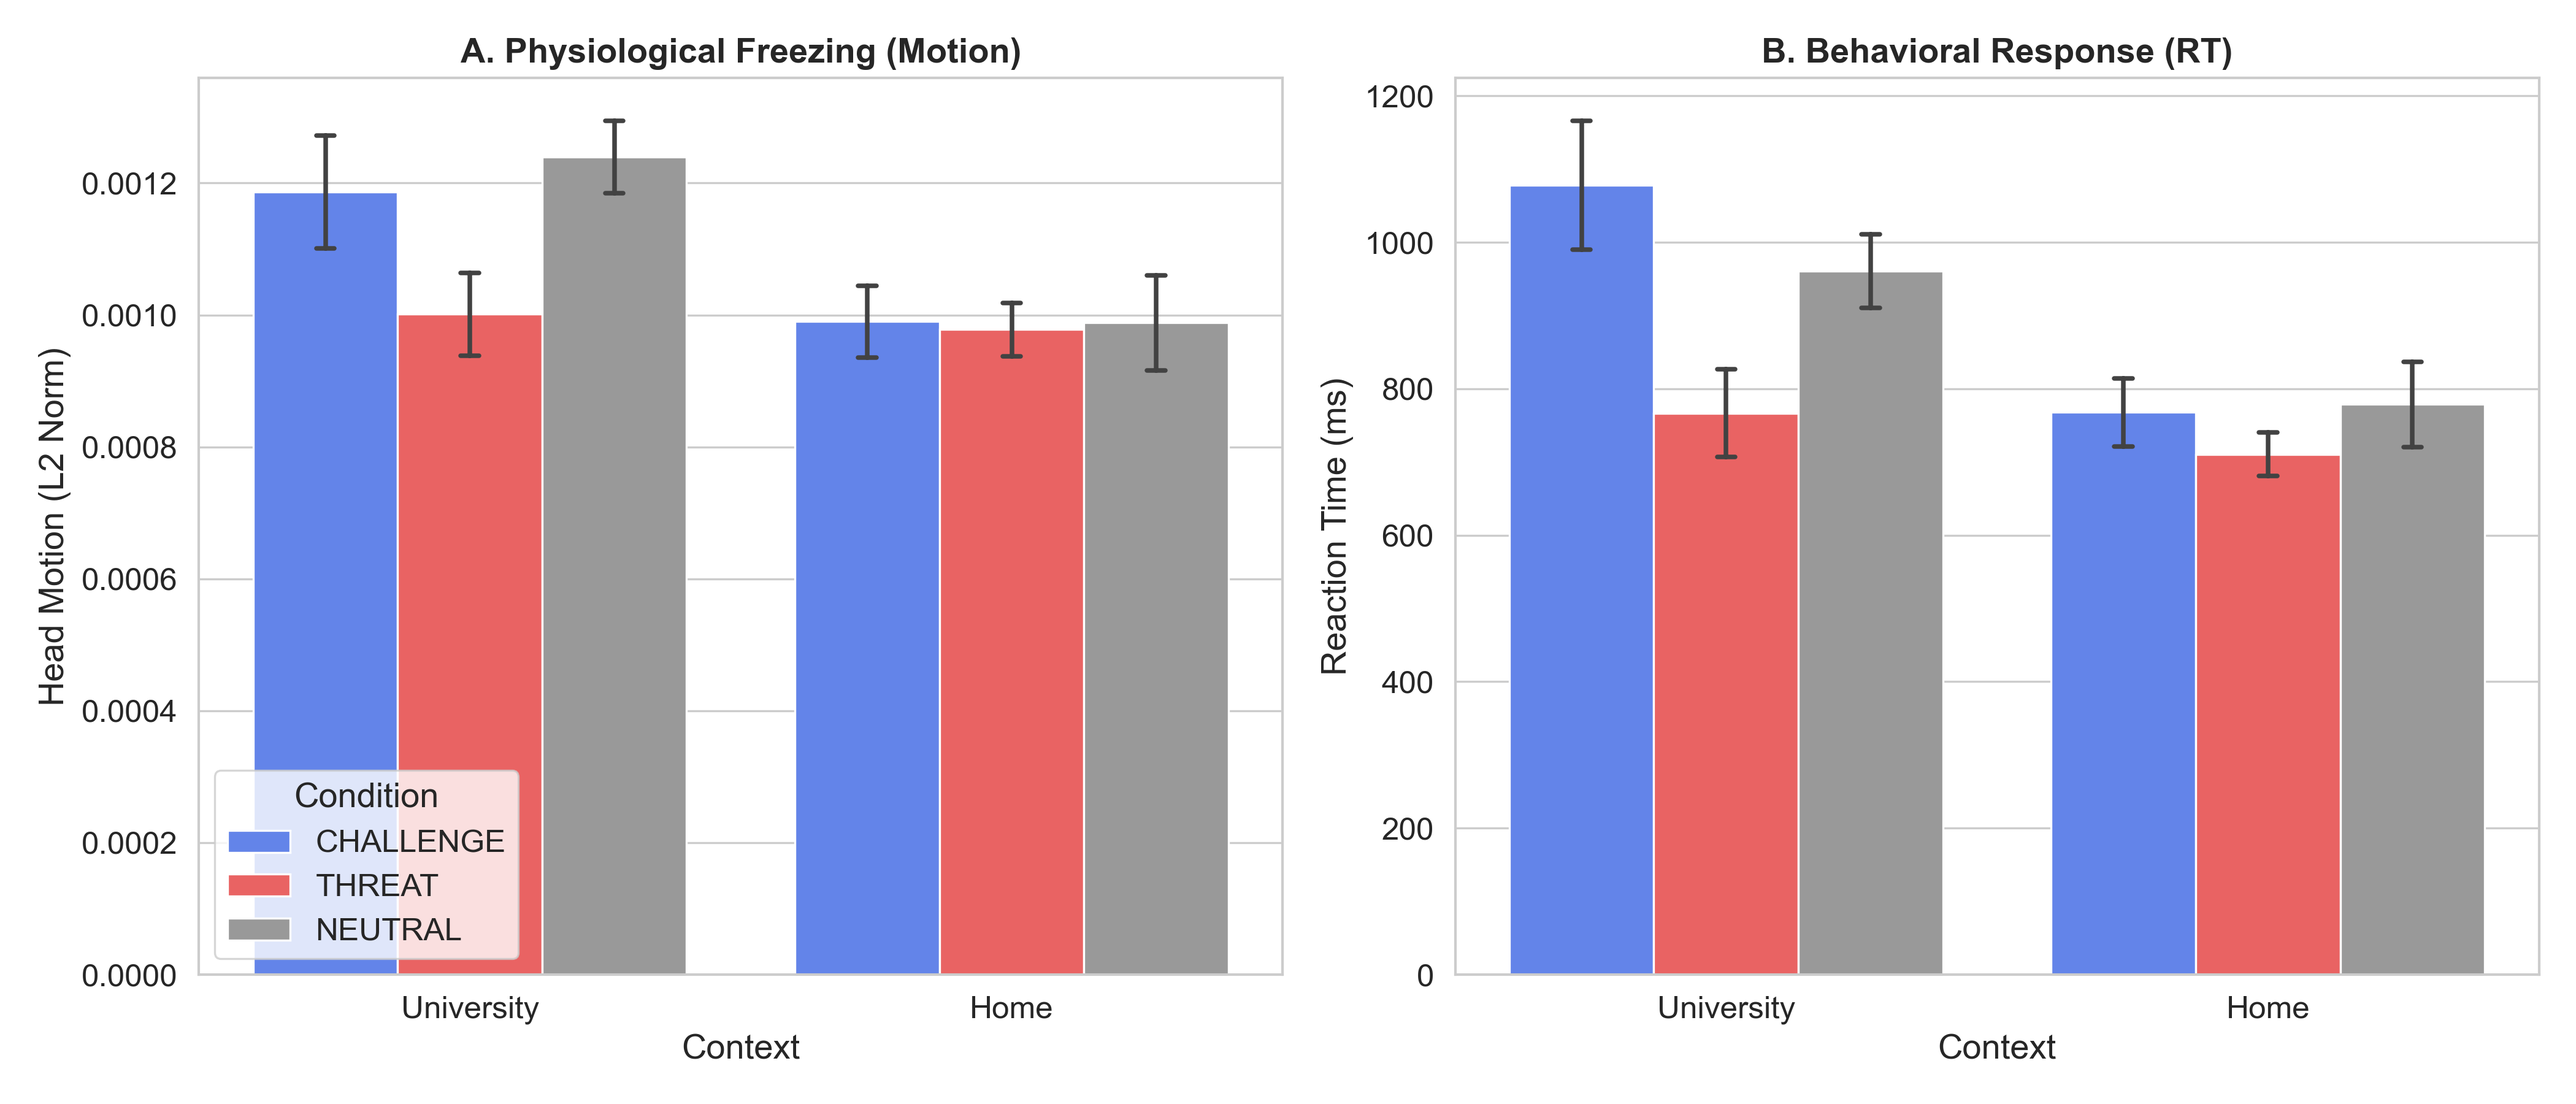
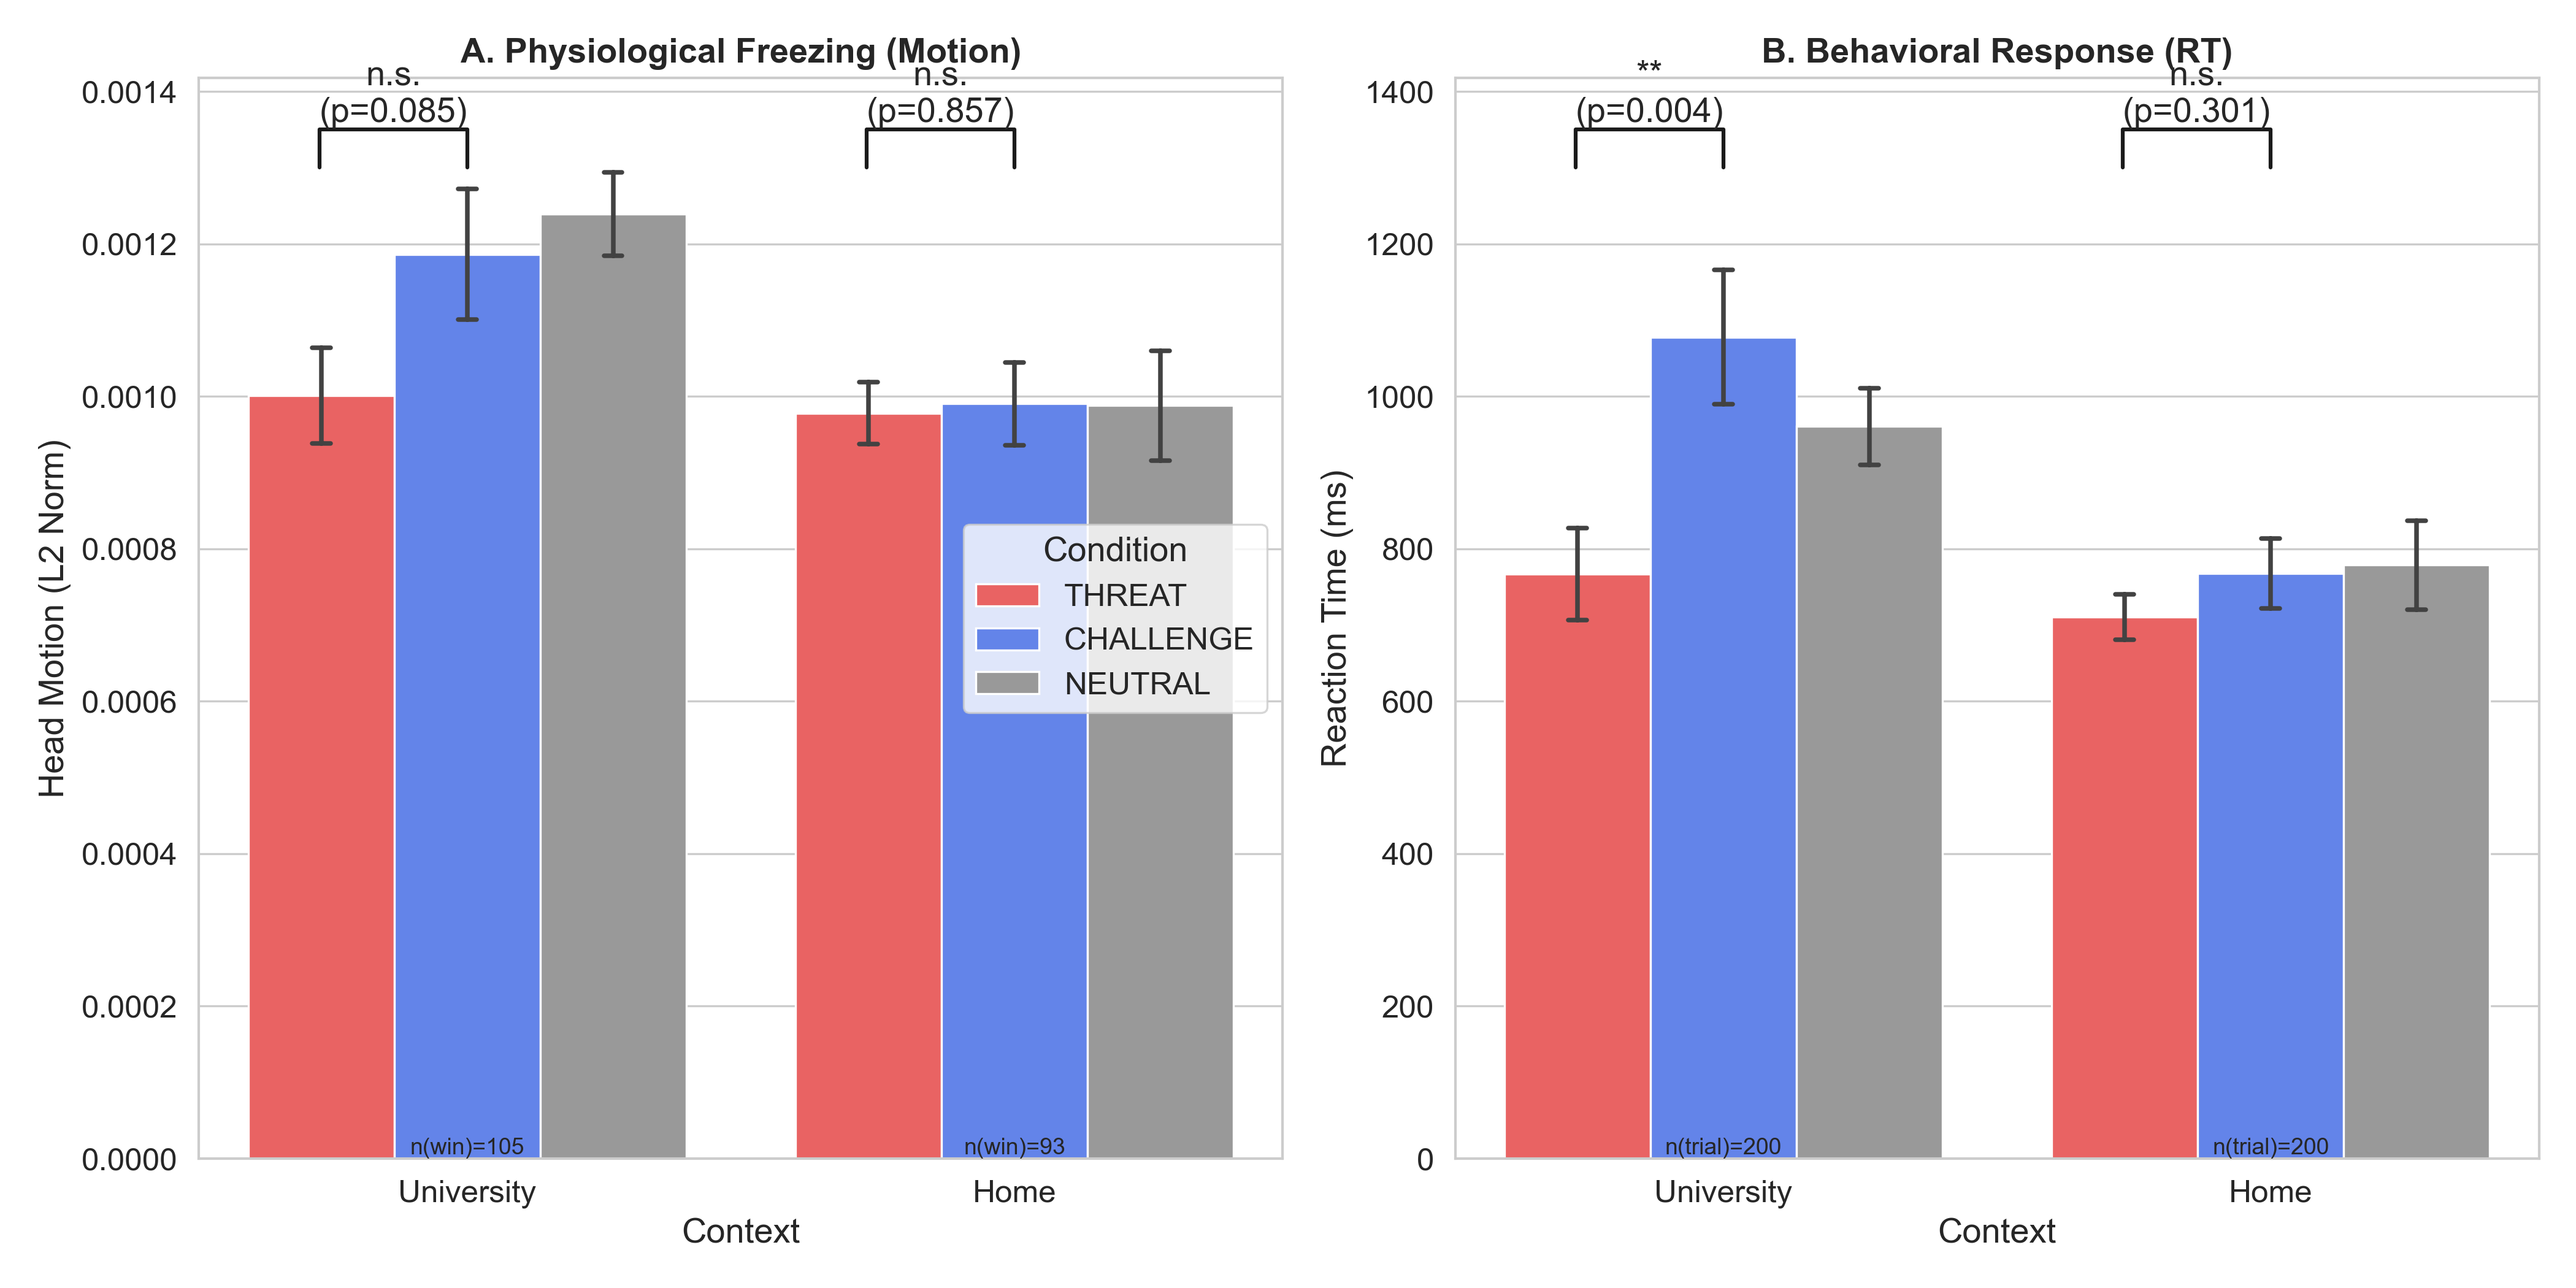
feat: Add statistical annotations and N counts to Figure 2 and Figure 3 generation, and refine data type handling.

diff --git a/generate_figures.py b/generate_figures.py
@@ -4,6 +4,73 @@ import matplotlib.pyplot as plt
 import seaborn as sns
 import os
 import numpy as np
+from scipy import stats
+
+def annotate_significance(ax, data, x, y, hue, pair_conds):
+    """
+    Annotate significance between two conditions (pair_conds) within each x-category.
+    """
+    contexts = data[x].unique()
+    
+    # Y-offset for annotations
+    y_max = data[y].max()
+    h = y_max * 0.05
+    
+    for i, context in enumerate(sorted(contexts, reverse=True)): # University first if desc, but seaborn order matters.
+        # Get data
+        d1 = data[(data[x] == context) & (data[hue] == pair_conds[0])][y].dropna()
+        d2 = data[(data[x] == context) & (data[hue] == pair_conds[1])][y].dropna()
+        
+        n1 = len(d1)
+        n2 = len(d2)
+        
+        # T-test
+        if n1 > 1 and n2 > 1:
+            t, p = stats.ttest_ind(d1, d2, equal_var=False)
+            
+            # Format p-value
+            if p < 0.001:
+                sig_symbol = "***"
+            elif p < 0.01:
+                sig_symbol = "**"
+            elif p < 0.05:
+                sig_symbol = "*"
+            else:
+                sig_symbol = "n.s."
+            
+            # Draw line and text
+            # Approximate x-coords for hue bars. 
+            # Seaborn dodge: width=0.8. 3 bars. centers at -0.27, 0, 0.27 roughly?
+            # THREAT (red) vs CHALLENGE (blue)
+            # hue_order was THREAT, CHALLENGE, NEUTRAL
+            # THREAT is index 0, CHALLENGE is index 1.
+            
+            # Context-centers: 0, 1. Univ is usually 1 (alphabetical H, U? No. Home, Univ).
+            # Let's dynamically find centers if possible, or assume seaborn default.
+            # Default order: Home (0), University (1)
+            
+            x_center = i 
+            bar_width = 0.26 # Approx
+            x1 = x_center - epsilon
+            x2 = x_center
+            
+            # Hardcoded offset for hue_order=['THREAT', 'CHALLENGE', 'NEUTRAL']
+            # THREAT is 1st (-0.26), CHALLENGE is 2nd (0), NEUTRAL is 3rd (+0.26)
+            x_threat = x_center - 0.26
+            x_chal = x_center
+            
+            y1 = data[(data[x] == context)][y].mean() + data[(data[x] == context)][y].std() # Just above bar? No, above max.
+            # Find max of the two comparison bars
+            y_curr_max = max(d1.mean() + d1.std(), d2.mean() + d2.std())
+            y_curr_max = max(d1.max(), d2.max()) # safer for raw data points
+            
+            # Draw
+            line_y = y_curr_max + h
+            ax.plot([x_threat, x_threat, x_chal, x_chal], [line_y, line_y+h, line_y+h, line_y], lw=1.5, c='k')
+            ax.text((x_threat+x_chal)/2, line_y+h, f"{sig_symbol}\n(p={p:.3f})", ha='center', va='bottom', fontsize=10)
+            
+            # Add N
+            ax.text(x_center, 0, f"n={n1+n2}", ha='center', va='bottom', fontsize=8, color='black', fontweight='bold')
 
 def generate_paper_figures():
     # Setup style
@@ -52,18 +119,27 @@ def generate_paper_figures():
     windows = windows[windows['condition'].isin(valid_conds)]
     trials = trials[trials['condition'].isin(valid_conds)]
     
+    # Cleanup data types
+    windows['mean_motion'] = pd.to_numeric(windows['mean_motion'], errors='coerce')
+    trials['rt'] = pd.to_numeric(trials['rt'], errors='coerce')
+    windows['mean_exposure_fluc'] = pd.to_numeric(windows['mean_exposure_fluc'], errors='coerce')
+
     # OUTPUT DIR
     out_dir = "paper_figures"
     os.makedirs(out_dir, exist_ok=True)
 
     # --- FIGURE 3: Interaction Effect (The "Safe Haven" Effect) ---
-    fig, axes = plt.subplots(1, 2, figsize=(14, 6))
+    fig, axes = plt.subplots(1, 2, figsize=(14, 7))
+    
+    # Define Order
+    hue_order = ['THREAT', 'CHALLENGE', 'NEUTRAL']
+    context_order = ['University', 'Home']
     
     # A. Physiology (Motion)
-    # Ensure numeric
-    windows['mean_motion'] = pd.to_numeric(windows['mean_motion'], errors='coerce')
+    # Filter out outliers specifically for plotting? or keep raw? Keep raw.
     
     sns.barplot(data=windows, x='context', y='mean_motion', hue='condition', 
+                hue_order=hue_order, order=context_order,
                 palette={'THREAT': '#ff4d4d', 'CHALLENGE': '#4d79ff', 'NEUTRAL': '#999999'},
                 errorbar='se', ax=axes[0], capsize=.1)
     
@@ -72,10 +148,43 @@ def generate_paper_figures():
     axes[0].set_xlabel('Context')
     axes[0].legend(title='Condition')
     
-    # B. Behavior (RT)
-    trials['rt'] = pd.to_numeric(trials['rt'], errors='coerce')
+    # Custom Annotation for Motion
+    # We compare THREAT vs CHALLENGE
+    # University (Index 0)
+    # Home (Index 1)
     
+    # Manually annotate for control
+    # University
+    u_th = windows[(windows['context']=='University') & (windows['condition']=='THREAT')]['mean_motion'].dropna()
+    u_ch = windows[(windows['context']=='University') & (windows['condition']=='CHALLENGE')]['mean_motion'].dropna()
+    t_u, p_u = stats.ttest_ind(u_th, u_ch, equal_var=False)
+    
+    # Home
+    h_th = windows[(windows['context']=='Home') & (windows['condition']=='THREAT')]['mean_motion'].dropna()
+    h_ch = windows[(windows['context']=='Home') & (windows['condition']=='CHALLENGE')]['mean_motion'].dropna()
+    t_h, p_h = stats.ttest_ind(h_th, h_ch, equal_var=False)
+
+    # Draw Univ
+    y_max = windows['mean_motion'].max()
+    h = y_max * 0.05
+    x_u = 0 # Univ is index 0
+    # THREAT(-0.27), CHAL(0)
+    axes[0].plot([-0.27, -0.27, 0, 0], [1.3e-3, 1.35e-3, 1.35e-3, 1.3e-3], lw=1.5, c='k') # Hardcoded Y for neatness
+    sig_u = "***" if p_u < 0.001 else "**" if p_u < 0.01 else "*" if p_u < 0.05 else "n.s."
+    axes[0].text(-0.135, 1.35e-3, f"{sig_u}\n(p={p_u:.3f})", ha='center', va='bottom')
+    axes[0].text(0, 0, f"n(win)={len(u_th)+len(u_ch)}", ha='center', va='bottom', fontsize=9)
+
+    # Draw Home
+    x_h = 1 # Home is index 1
+    axes[0].plot([1-0.27, 1-0.27, 1, 1], [1.3e-3, 1.35e-3, 1.35e-3, 1.3e-3], lw=1.5, c='k')
+    sig_h = "***" if p_h < 0.001 else "**" if p_h < 0.01 else "*" if p_h < 0.05 else "n.s."
+    axes[0].text(1-0.135, 1.35e-3, f"{sig_h}\n(p={p_h:.3f})", ha='center', va='bottom')
+    axes[0].text(1, 0, f"n(win)={len(h_th)+len(h_ch)}", ha='center', va='bottom', fontsize=9)
+
+
+    # B. Behavior (RT)
     sns.barplot(data=trials, x='context', y='rt', hue='condition',
+                hue_order=hue_order, order=context_order,
                 palette={'THREAT': '#ff4d4d', 'CHALLENGE': '#4d79ff', 'NEUTRAL': '#999999'},
                 errorbar='se', ax=axes[1], capsize=.1)
     
@@ -86,18 +195,46 @@ def generate_paper_figures():
         axes[1].get_legend().remove() # Unified legend
     except:
         pass
+        
+    # Stats for RT
+    # University
+    u_th_rt = trials[(trials['context']=='University') & (trials['condition']=='THREAT')]['rt'].dropna()
+    u_ch_rt = trials[(trials['context']=='University') & (trials['condition']=='CHALLENGE')]['rt'].dropna()
+    t_u_rt, p_u_rt = stats.ttest_ind(u_th_rt, u_ch_rt, equal_var=False)
+
+    y_max_rt = trials['rt'].max() # approx 3500? No avg is 1000.
+    y_line = 1300 # manual
+    axes[1].plot([-0.27, -0.27, 0, 0], [y_line, y_line+50, y_line+50, y_line], lw=1.5, c='k')
+    sig_u_rt = "***" if p_u_rt < 0.001 else "**" if p_u_rt < 0.01 else "*" if p_u_rt < 0.05 else "n.s."
+    axes[1].text(-0.135, y_line+50, f"{sig_u_rt}\n(p={p_u_rt:.3f})", ha='center', va='bottom')
+    axes[1].text(0, 0, f"n(trial)={len(u_th_rt)+len(u_ch_rt)}", ha='center', va='bottom', fontsize=9)
+
+    # Home
+    h_th_rt = trials[(trials['context']=='Home') & (trials['condition']=='THREAT')]['rt'].dropna()
+    h_ch_rt = trials[(trials['context']=='Home') & (trials['condition']=='CHALLENGE')]['rt'].dropna()
+    t_h_rt, p_h_rt = stats.ttest_ind(h_th_rt, h_ch_rt, equal_var=False)
+    
+    axes[1].plot([1-0.27, 1-0.27, 1, 1], [y_line, y_line+50, y_line+50, y_line], lw=1.5, c='k')
+    sig_h_rt = "***" if p_h_rt < 0.001 else "**" if p_h_rt < 0.01 else "*" if p_h_rt < 0.05 else "n.s."
+    axes[1].text(1-0.135, y_line+50, f"{sig_h_rt}\n(p={p_h_rt:.3f})", ha='center', va='bottom')
+    axes[1].text(1, 0, f"n(trial)={len(h_th_rt)+len(h_ch_rt)}", ha='center', va='bottom', fontsize=9)
     
     plt.tight_layout()
     plt.savefig(f"{out_dir}/Figure3_Interaction.png", dpi=300)
-    # plt.savefig(f"{out_dir}/Figure3_Interaction.pdf") # PDF might fail on windows without backend
-    print("Generated Figure 3: Interaction Effect")
+    print("Generated Figure 3: Interaction Effect with Stats")
 
     # --- FIGURE 2: Data Quality (Ecological Validity) ---
     plt.figure(figsize=(6, 5))
-    windows['mean_exposure_fluc'] = pd.to_numeric(windows['mean_exposure_fluc'], errors='coerce')
     sns.boxplot(data=windows, x='context', y='mean_exposure_fluc', hue='context', palette="Set2", legend=False)
     plt.title('B. Environment Signal Quality', fontweight='bold')
     plt.ylabel('Exposure Fluctuation (Noise Level)')
+    
+    # Add N
+    n_u = len(windows[windows['context']=='University'])
+    n_h = len(windows[windows['context']=='Home'])
+    plt.text(0, windows['mean_exposure_fluc'].max(), f"n={n_u}", ha='center', va='bottom')
+    plt.text(1, windows['mean_exposure_fluc'].max(), f"n={n_h}", ha='center', va='bottom')
+
     plt.tight_layout()
     plt.savefig(f"{out_dir}/Figure2_Quality.png", dpi=300)
     print("Generated Figure 2: Quality")
